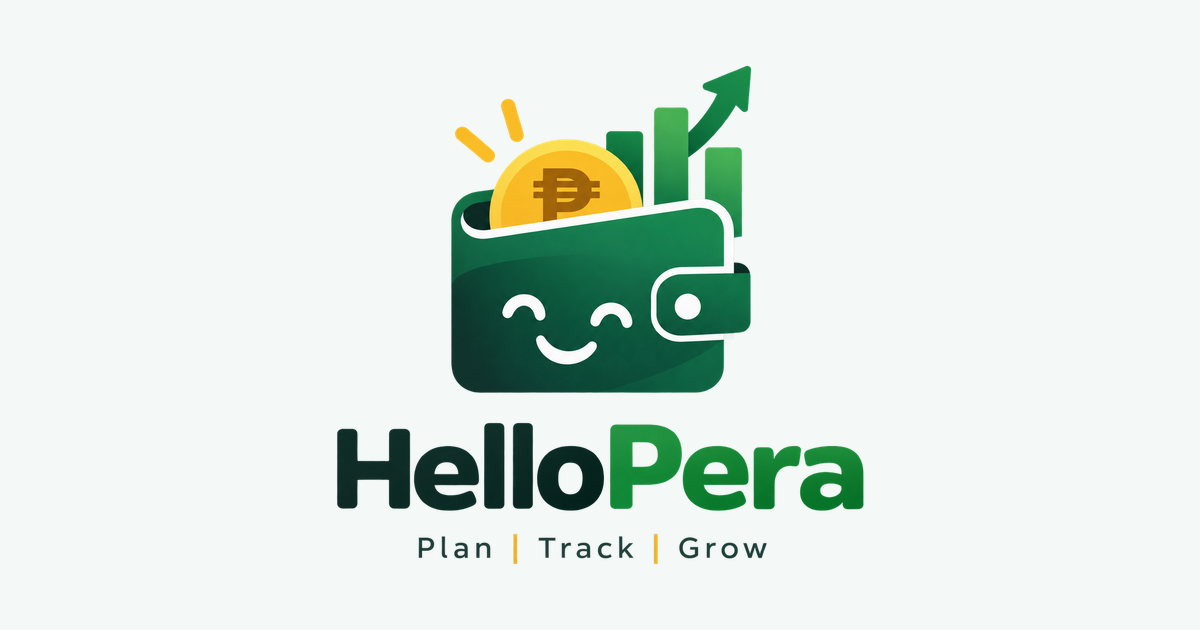
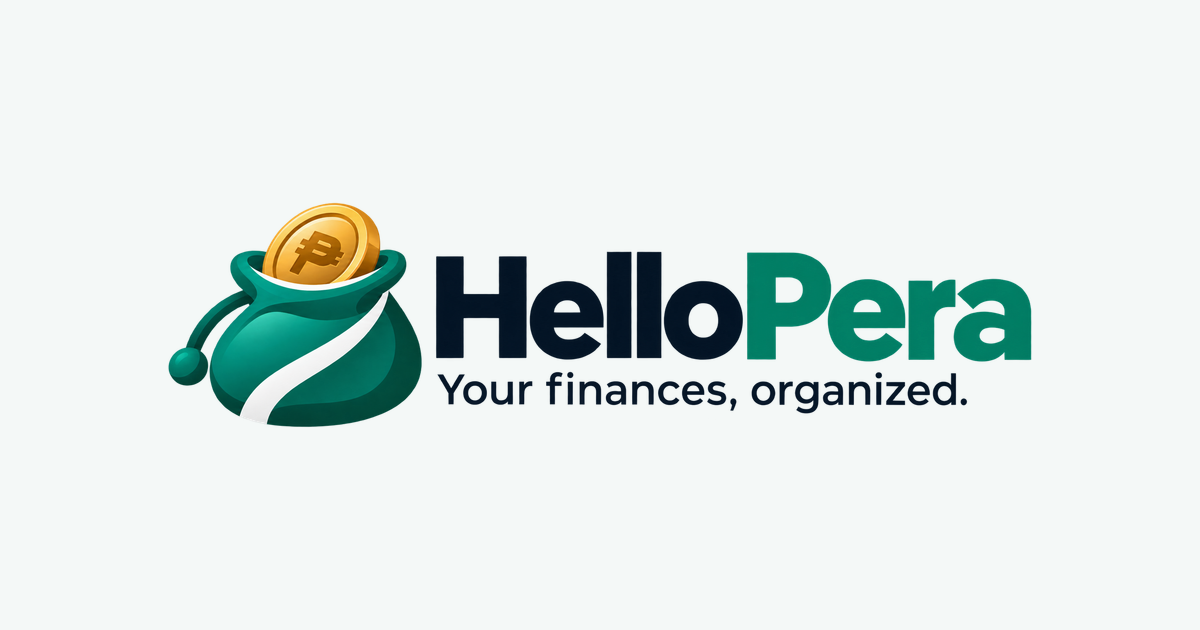
Brand refresh: new coin-purse mark across every generated asset
The brand set in image/ was replaced: the mark changed from a smiling
wallet to a coin purse with a peso coin, the two old source files were
deleted, and ten new cuts were added.

That broke `npm run icons` outright — scripts/build-icons.mjs still
pointed at image/HelloPeraIcon.png, which no longer exists. Sources are
now Icon-only-master.png and Primary-horizontal-logo-with-tagline.png,
and every favicon, PWA icon and social card is regenerated.

Two pre-rendered tiles in the new set are deliberately NOT used. App-icon
and Maskable-PWA-icon are drawn as a rounded tile on a white field, and a
maskable icon is cropped by the launcher to a circle — those white
corners would show as white arcs around the mark. They are correct as
reference art and wrong as build sources.

The maskable ground is measured rather than chosen. Against the purse
body #027C6B: the mark's own mean green #047F6E gives 1.04:1, so the
purse dissolves into its tile; the brand sheet's favicon teal #02594E
gives 1.61:1, still weak at 16px; Deep Ink #132238 gives 3.12:1 and
clears WCAG 1.4.11's 3:1 for a graphical object. Deep Ink is also an
approved ground in the brand sheet's own "Dark / Ink" favicon row, so
this is the designer's option rather than an invention — and it matches
--hp-nav, the rail the signed-in app already uses.

The social card also needed fixing: the previous lockup was square, so
scaling it to 500px tall fitted the 1200px card. The new one is roughly
[…]

Changed region(s): [[0.1233, 0.0905, 0.8633, 0.8143], [0.3392, 0.8444, 0.6475, 0.9048]]

diff --git a/components/brand/app-logo.tsx b/components/brand/app-logo.tsx
@@ -2,19 +2,23 @@ import Image from 'next/image';
 import { cn } from '@/lib/utils/cn';
 
 /**
- * HelloPera lockup — the real mark from image/HelloPeraIcon.png, beside a
+ * HelloPera lockup — the real mark from image/Icon-only-master.png, beside a
  * live-text wordmark.
  *
  * The mark is raster because that is the form the brand art exists in;
  * `public/icons/icon-192.png` is the smallest generated cut, so a 28px logo
- * does not pull a 913 KB source through the optimiser. Regenerate with
- * `node scripts/build-icons.mjs`.
+ * does not pull a 900 KB source through the optimiser. Regenerate with
+ * `npm run icons`.
  *
- * The wordmark stays as text rather than shipping the lockup raster: it keeps
- * its own colour tokens on the dark rail, it scales without a second asset,
- * and it is selectable and searchable. Its colours follow the UI palette
- * (jade), not the logo art (grass green) — the showcase makes the same
- * substitution, and docs/DESIGN-SYSTEM.md §3.4 records why.
+ * The brand set also ships a finished lockup (Primary-horizontal-logo.png).
+ * It is deliberately not used here: a flat raster cannot re-colour for the
+ * Deep Ink rail or for dark mode, it would need several cuts to stay crisp,
+ * and the wordmark would stop being selectable text.
+ *
+ * The wordmark stays as text: it keeps its own colour tokens on the dark rail,
+ * scales without a second asset, and is selectable and searchable. Its colours
+ * follow the UI palette, not the logo art — docs/DESIGN-SYSTEM.md §3.4 records
+ * why, and the substitution still holds for the new mark.
  *
  * `tone="onDark"` is for the navigation rail, where the ground is Deep Ink
  * and the light-theme text token would vanish into it.
@@ -56,8 +60,8 @@ export function AppLogo({
 }
 
 /**
- * The wallet mark on its own. Decorative wherever the wordmark sits beside it,
- * which is everywhere it currently appears.
+ * The coin-purse mark on its own. Decorative wherever the wordmark sits beside
+ * it, which is everywhere it currently appears.
  */
 export function BrandMark({
   size = 30,

diff --git a/docs/DESIGN-SYSTEM.md b/docs/DESIGN-SYSTEM.md
@@ -1,7 +1,7 @@
 # HelloPera Design System
 
 **Source of truth for visual design:** `docs/HelloPera Finance UI Showcase.png`.
-**Source of truth for brand identity:** `image/HelloPeraIcon.png`, `image/HelloPeraLogo.png`.
+**Source of truth for brand identity:** the brand set in `image/` — see §2.
 
 That file is the design. This document records how it is implemented, and —
 more importantly — the four places the implementation deliberately departs
@@ -40,12 +40,28 @@ Copy taken from the showcase lives in `lib/constants/brand.ts`
 
 ## 2. Brand assets
 
-Two files are the only hand-authored art in the repo:
+The brand set in `image/` is the only hand-authored art in the repo. It was
+replaced in September 2026: the mark changed from a smiling wallet to a **coin
+purse with a peso coin**, and the wordmark gained a proper lockup.
 
-| File | What it is |
-|---|---|
-| `image/HelloPeraIcon.png` | 1254² app mark — smiling wallet, peso coin, growth bars, on a rounded tile with transparent corners |
-| `image/HelloPeraLogo.png` | 1254² full lockup — mark, "HelloPera" wordmark, "Plan \| Track \| Grow" |
+Two files are the generation sources. The rest are reference and
+platform-specific cuts.
+
+| File | What it is | Used by the build? |
+|---|---|---|
+| `image/Icon-only-master.png` | 1318×1193 mark, transparent — the coin purse | **Yes** — every icon |
+| `image/Primary-horizontal-logo-with-tagline.png` | 2172×724 lockup, transparent — mark + wordmark + "Your finances, organized." | **Yes** — social cards |
+| `image/Primary-horizontal-logo.png` | The same lockup without the tagline | No |
+| `image/Stacked-logo.png` | 1254² vertical lockup | No |
+| `image/App-icon.png`, `Maskable-PWA-icon.png` | 1254² rounded tiles on a **white** field | **No — see below** |
+| `image/Favicon.png` | 1254² full-bleed teal tile | No |
+| `image/Monochrome-white.png`, `Monochrome-dark.png` | Single-colour lockups | No |
+| `image/Marketing-lifestyle-version.png` | Annotated brand-guideline sheet | No — it is documentation, not an asset |
+
+**Why the pre-rendered app and maskable tiles are not used.** Both are drawn as
+a rounded tile on a white field. A maskable icon is cropped by the launcher to
+a circle or squircle, so those white corners would appear as white arcs around
+the mark. They are correct as reference art and wrong as build sources.
 
 Everything derived from them is generated by `npm run icons`
 (`scripts/build-icons.mjs`) and committed:
@@ -56,7 +72,20 @@ Everything derived from them is generated by `npm run icons`
 | `app/apple-icon.png` | Icon | 180², opaque — iOS composites transparency onto black |
 | `app/opengraph-image.png` + `twitter-image.png` | Logo | 1200×630 on Mist, with `.alt.txt` |
 | `public/icons/icon-192.png`, `icon-512.png` | Icon | `purpose: "any"`, tile transparency kept |
-| `public/icons/icon-maskable-512.png` | Icon | `purpose: "maskable"`, tile at 80% on `#10704C` |
+| `public/icons/icon-maskable-512.png` | Icon | `purpose: "maskable"`, mark at 80% on Deep Ink `#132238` |
+
+**The maskable ground is measured, not chosen.** Against the purse body
+`#027C6B`:
+
+| Ground | Ratio | Verdict |
+|---|---|---|
+| `#047F6E` the mark's own mean green | 1.04:1 | invisible — the purse dissolves into its tile |
+| `#02594E` the brand sheet's favicon teal | 1.61:1 | weak at 16px |
+| `#132238` Deep Ink | **3.12:1** | clears WCAG 1.4.11's 3:1 for a graphical object |
+
+Deep Ink is also an approved ground in the brand sheet's own "Dark / Ink"
+favicon row, so this is the designer's option rather than a new one — and it
+matches `--hp-nav`, the rail the signed-in app already uses.
 
 Two things that are load-bearing and easy to undo by accident:
 

diff --git a/docs/HELLOPERA-MASTER-PLAN.md b/docs/HELLOPERA-MASTER-PLAN.md
@@ -1347,12 +1347,17 @@ actions. Read it before building any screen.
 Brand identity is separate, and lives in:
 
 ```text
-image/HelloPeraIcon.png
-image/HelloPeraLogo.png
+image/Icon-only-master.png
+image/Primary-horizontal-logo-with-tagline.png
 ```
 
 Every favicon, PWA icon and social image is generated from those two files by
 `npm run icons` and committed. Never hand-edit an output.
+
+`image/` holds several other cuts — stacked, monochrome, pre-rendered tiles —
+which are reference rather than build inputs. `docs/DESIGN-SYSTEM.md` §2 lists
+each and says which the build uses, and why the pre-rendered app and maskable
+tiles are deliberately not among them.
 
 ```text
 docs/DESIGN-SYSTEM.md
